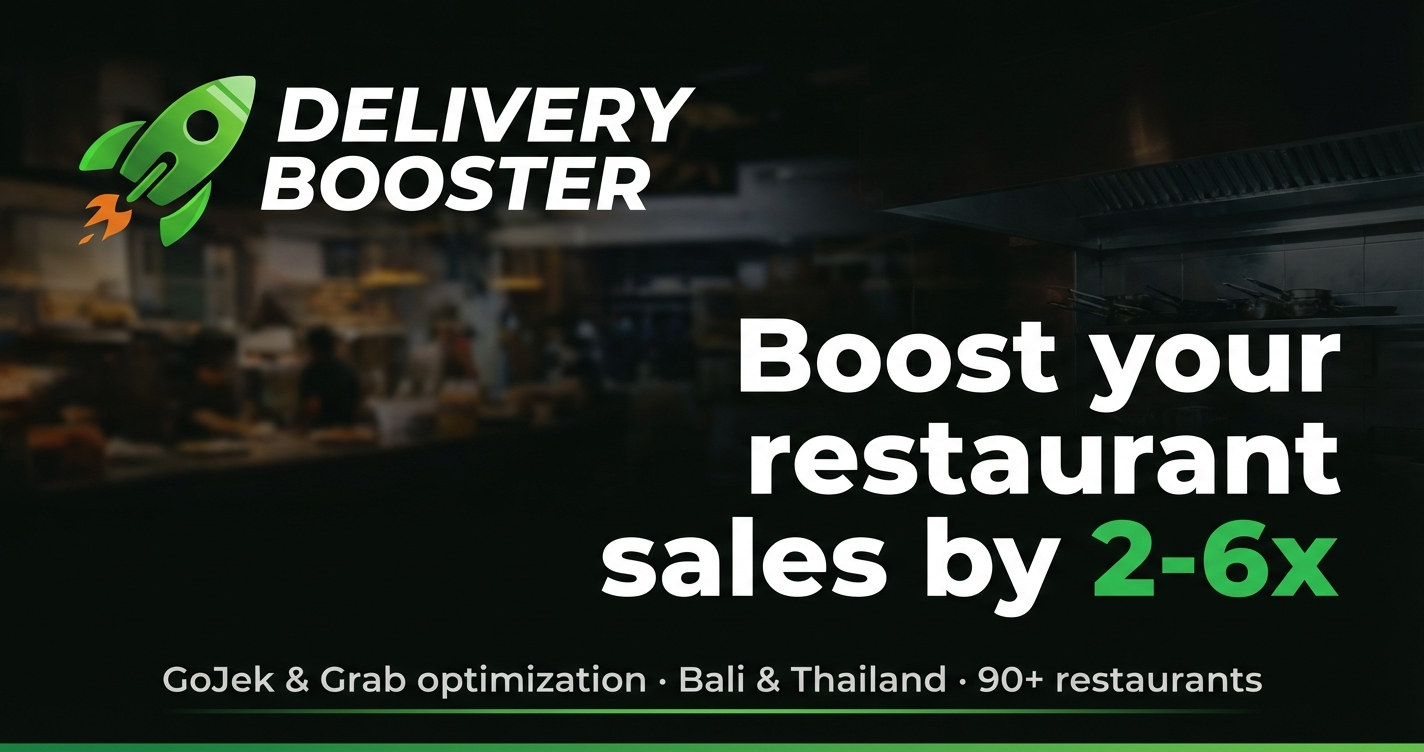
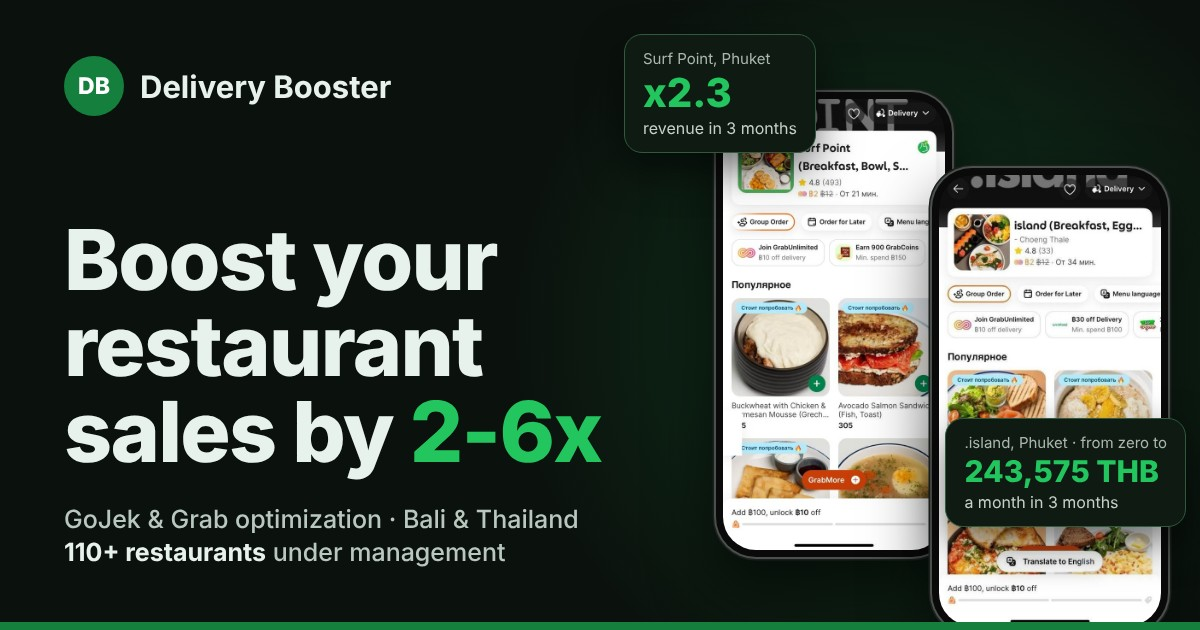
Картинка под ссылкой (og-image) в стиле нового сайта, 1200x630; журнал 47
Claude-Session: https://claude.ai/code/session_01M1FA2jgMLxTKZRv8BuyNqV

diff --git a/client/index.html b/client/index.html
@@ -19,9 +19,9 @@
     <meta property="og:url" content="https://booster.delivery/" />
     <meta property="og:title" content="Delivery Booster — 2-6x Sales Growth on GoJek & Grab" />
     <meta property="og:description" content="Full delivery platform management for restaurants in Bali & Thailand. Menu optimization, ads, ratings 4.8+, analytics. 110+ restaurants under management, 200+ served since 2023." />
-    <meta property="og:image" content="https://booster.delivery/og-preview.jpg" />
-    <meta property="og:image:width" content="1424" />
-    <meta property="og:image:height" content="752" />
+    <meta property="og:image" content="https://booster.delivery/og-preview.jpg?v=2" />
+    <meta property="og:image:width" content="1200" />
+    <meta property="og:image:height" content="630" />
     <meta property="og:locale" content="en_US" />
     <meta property="og:locale:alternate" content="ru_RU" />
     <meta property="og:locale:alternate" content="id_ID" />
@@ -32,7 +32,7 @@
     <meta name="twitter:card" content="summary_large_image" />
     <meta name="twitter:title" content="Delivery Booster — 2-6x Sales Growth on GoJek & Grab" />
     <meta name="twitter:description" content="Full delivery platform management for restaurants in Bali & Thailand. 110+ restaurants under management, 200+ served since 2023." />
-    <meta name="twitter:image" content="https://booster.delivery/og-preview.jpg" />
+    <meta name="twitter:image" content="https://booster.delivery/og-preview.jpg?v=2" />
 
     <!-- Аналитика.
          Umami — свой сервер, без кук: работает всегда, согласия не требует.

diff --git a/ai_docs/ai-visibility/SESSION_LOG.md b/ai_docs/ai-visibility/SESSION_LOG.md
@@ -4,6 +4,32 @@
 
 ---
 
+## 2026-11-24 (47) - Новая картинка под ссылкой (og-image) в стиле нового сайта; список для маркетолога переписан простыми словами
+
+Алекс: список для маркетолога был написан айтишным языком («картинка для превью ссылки»), человек
+без IT этого не поймёт. Список переписан простыми словами (без «px», «плитки», «блок»). Пункт про
+картинку под ссылкой с маркетолога снят: Алекс сказал сделать самому.
+
+Что сделано:
+- `client/public/og-preview.jpg` и `og-image.jpg` (одинаковые): новая картинка 1200x630 в стиле
+  нового сайта. Тёмный фон, знак DB, «Boost your restaurant sales by 2-6x», строка «GoJek & Grab
+  optimization · Bali & Thailand, 110+ restaurants under management», два телефона с карточками
+  Grab (Surf Point x2.3 за 3 месяца, .island 243,575 THB в месяц за 3 месяца). Заголовок и строка
+  взяты со старой картинки, исправлено только устаревшее «90+ restaurants» на «110+».
+- `client/index.html`: размеры 1200x630, к адресу картинки добавлен `?v=2`, чтобы соцсети и
+  мессенджеры не показывали старую из кэша.
+- Исходник картинки (HTML, рендер Playwright 1200x630): `attached_assets/og-2026-11/og-source.html`
+  (не в git). Картинка одна на весь сайт и на все языки, задаётся только в `index.html`.
+
+Правило на будущее: тексты для людей не из IT (маркетолог, клиенты) писать без терминов:
+не «превью ссылки», а «картинка, которая появляется под ссылкой в Telegram и WhatsApp».
+
+Следующие шаги: без изменений (ждём от маркетолога пункты 1-6 из бэклога). Telegram и WhatsApp
+держат старую картинку в кэше по адресу страницы: для уже отправленных ссылок она обновится не
+сразу, в Telegram кэш сбрасывается через @WebpageBot.
+
+---
+
 ## 2026-11-24 (46) - Сайт переведён на финальное ТЗ маркетолога: главная страны, шаблон кейса, 8 кейсов, мобильная шапка; деплой (639f25e)
 
 Алекс: «делай все и потом дай список того, чего не хватило». Решения Алекса: средний платёж в

diff --git a/ai_docs/ai-visibility/BACKLOG.md b/ai_docs/ai-visibility/BACKLOG.md
@@ -19,7 +19,7 @@
   «заказы x4.6» против 34 → 167 в таблице (x4.9) и период кейса; (2) настоящий логотип Lavash &
   Grill и логотипы .island крупнее 112 px; (3) третий отзыв и отзыв балийского клиента; (4) ссылки
   Grab для Lume Boat Avenue и двух Sassy Go после регистрации; (5) вычитка тайского и индонезийского
-  носителем; (6) длинные тексты шести старых кейсов по продажам вместо выплат; (7) og-image.
+  носителем; (6) длинные тексты шести старых кейсов по продажам вместо выплат. Картинку под ссылкой сделали сами (SESSION_LOG 47).
 - [ ] **P2. Длинные тире в старых текстах сайта** (FAQ, статьи, title страниц): правило Алекса
   «без длинного тире», новые блоки уже без них; старые тексты не трогались (ТЗ: FAQ и статьи не менять).
 - [ ] **P2. Удалить рабочую копию `.worktrees/v2` и ветку `redesign-v2`** (влита в main 24.11).
@@ -456,6 +456,8 @@
 - [ ] **Wikidata** (порог ниже, чем у Wikipedia; кормит Google Knowledge Graph и распознавание сущностей ИИ) — элемент компании + основателя, как появятся 2-3 независимых упоминания (VC.ru/каталог/LinkedIn). Wikipedia — позже.
 
 ## Done
+- [x] **2026-11-24. Картинка под ссылкой (og-image) в стиле нового сайта:** 1200x630, два телефона
+  с кейсами, «110+ restaurants» вместо устаревшего «90+», `?v=2` против кэша. SESSION_LOG 47.
 - [x] **2026-11-24. Сайт по финальному ТЗ маркетолога:** новая главная страны (первый экран с
   карточками клиентов, логотипы, карусель кейсов, цена, отзывы), шаблон страницы кейса и 8 кейсов
   на 4 языках (новые Surf Point и .island), мобильная шапка с меню (баг с языками закрыт), средний
